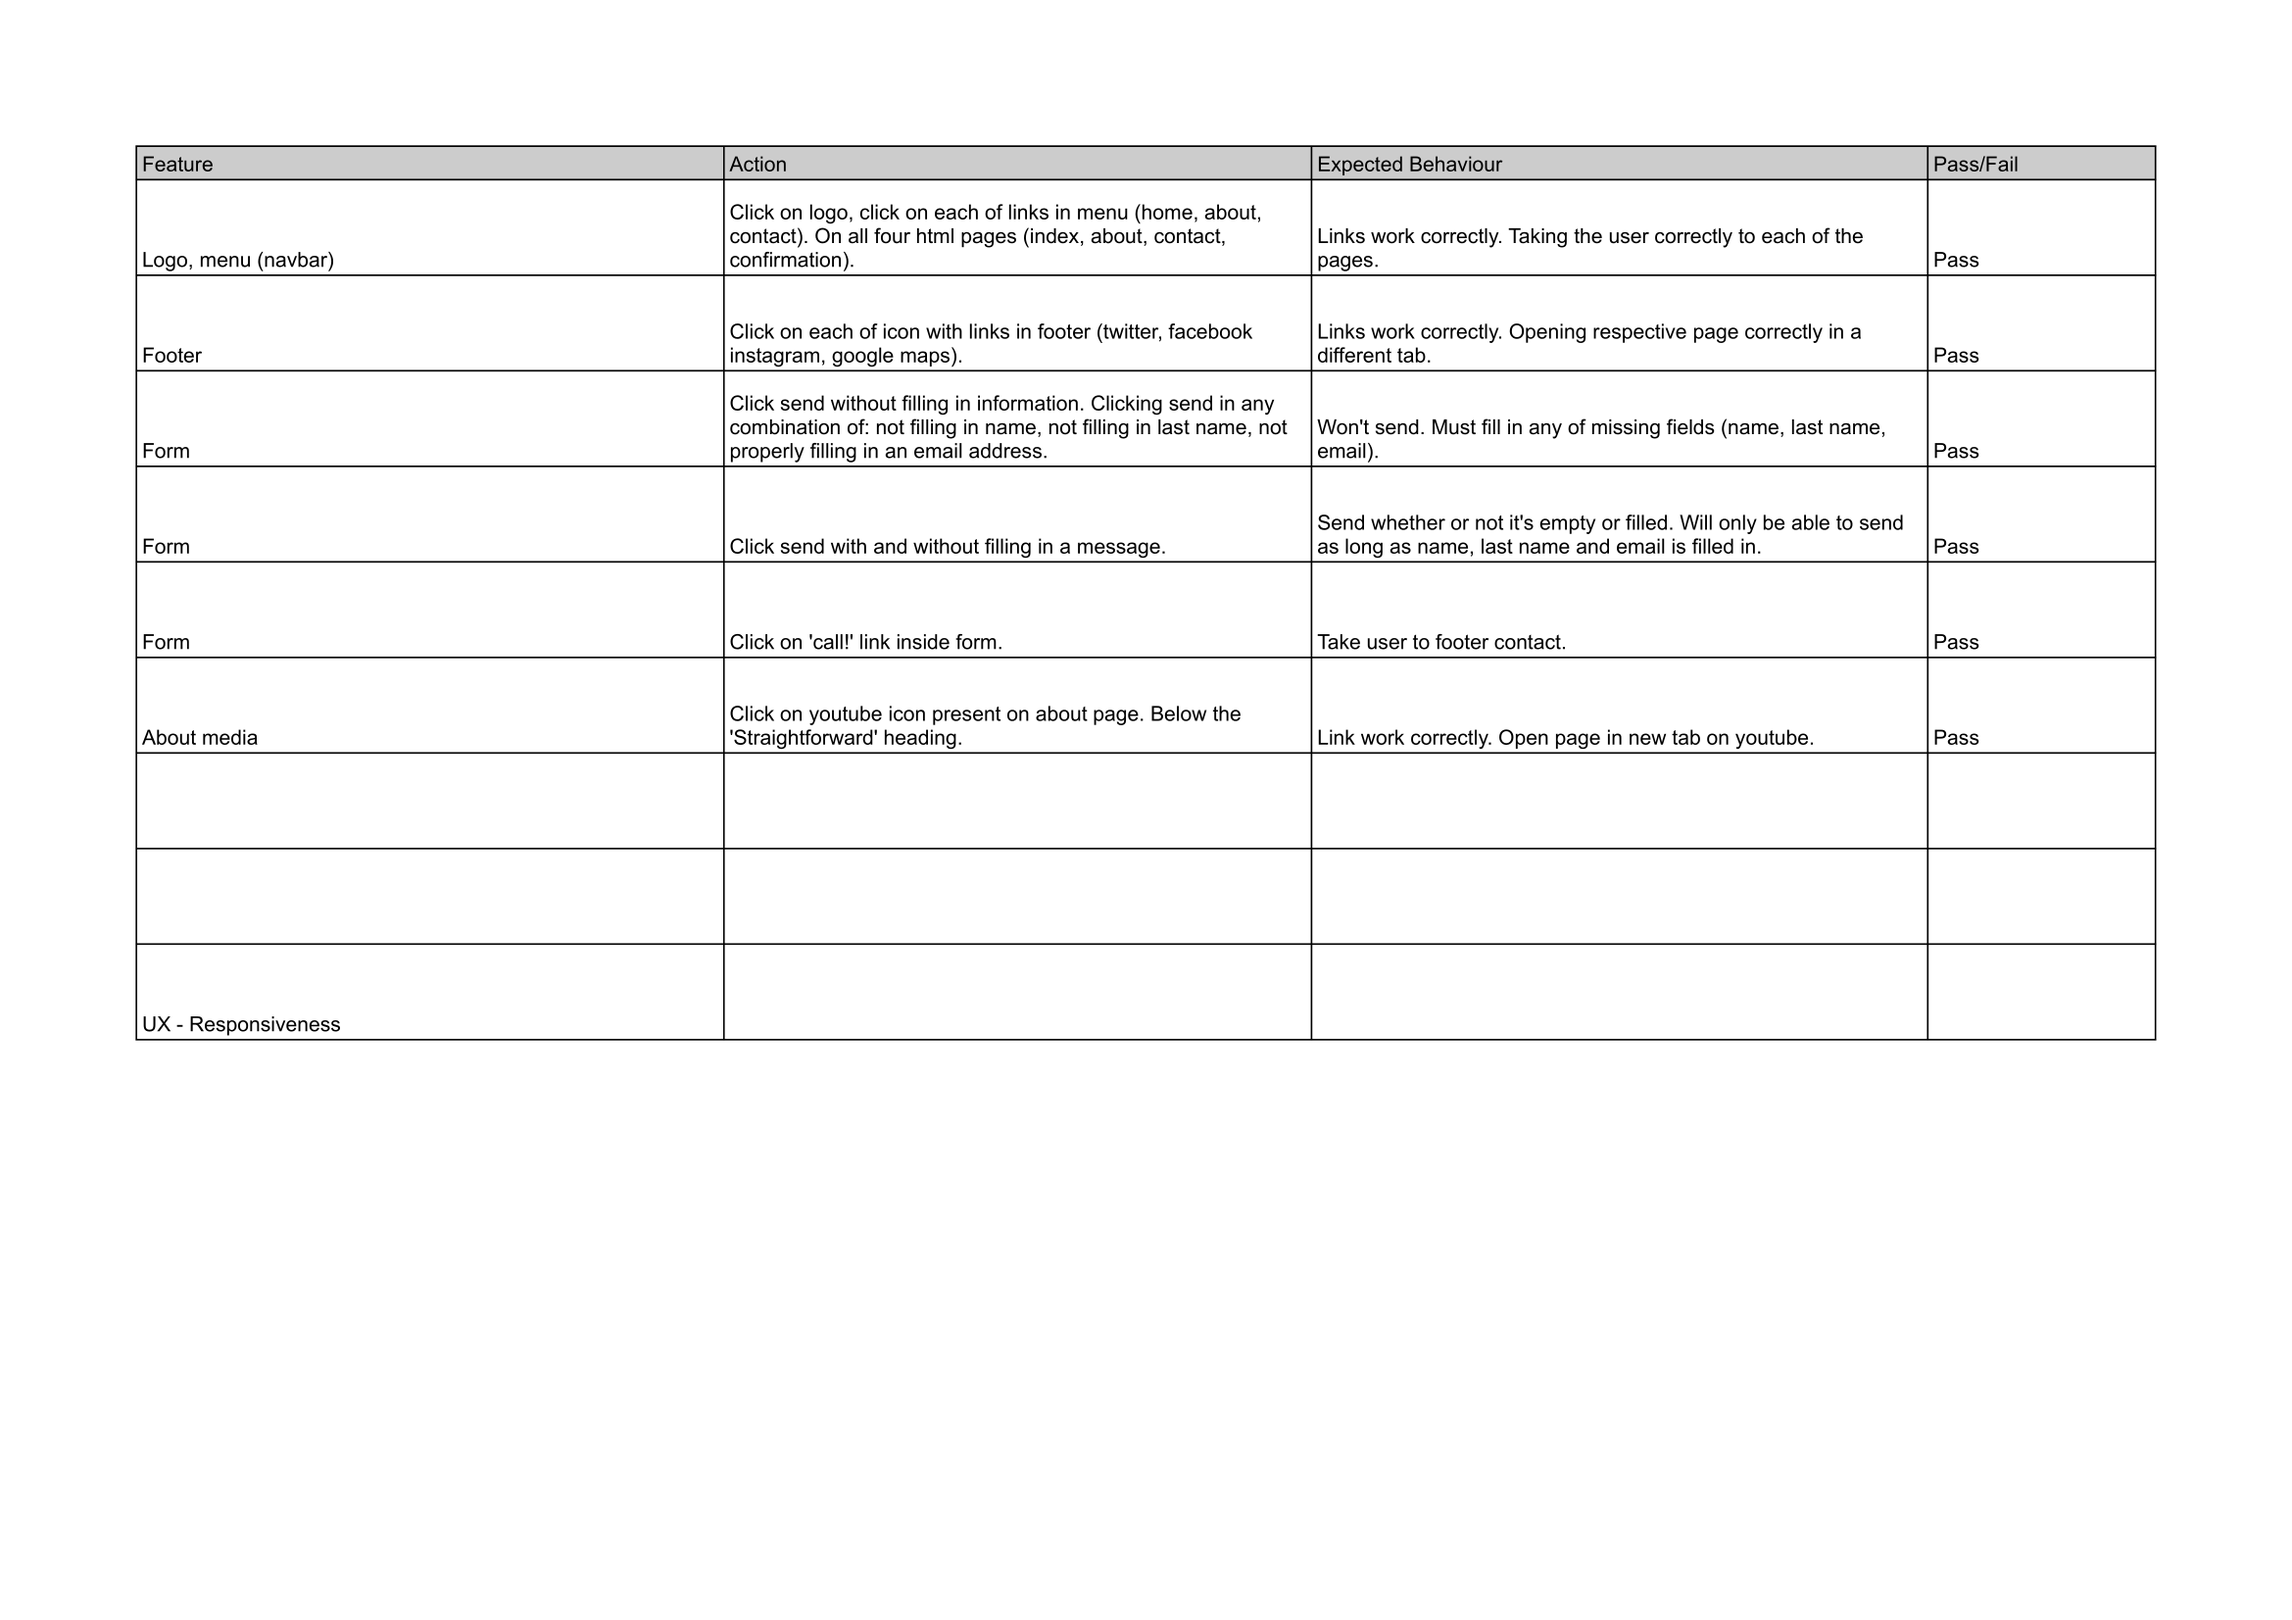
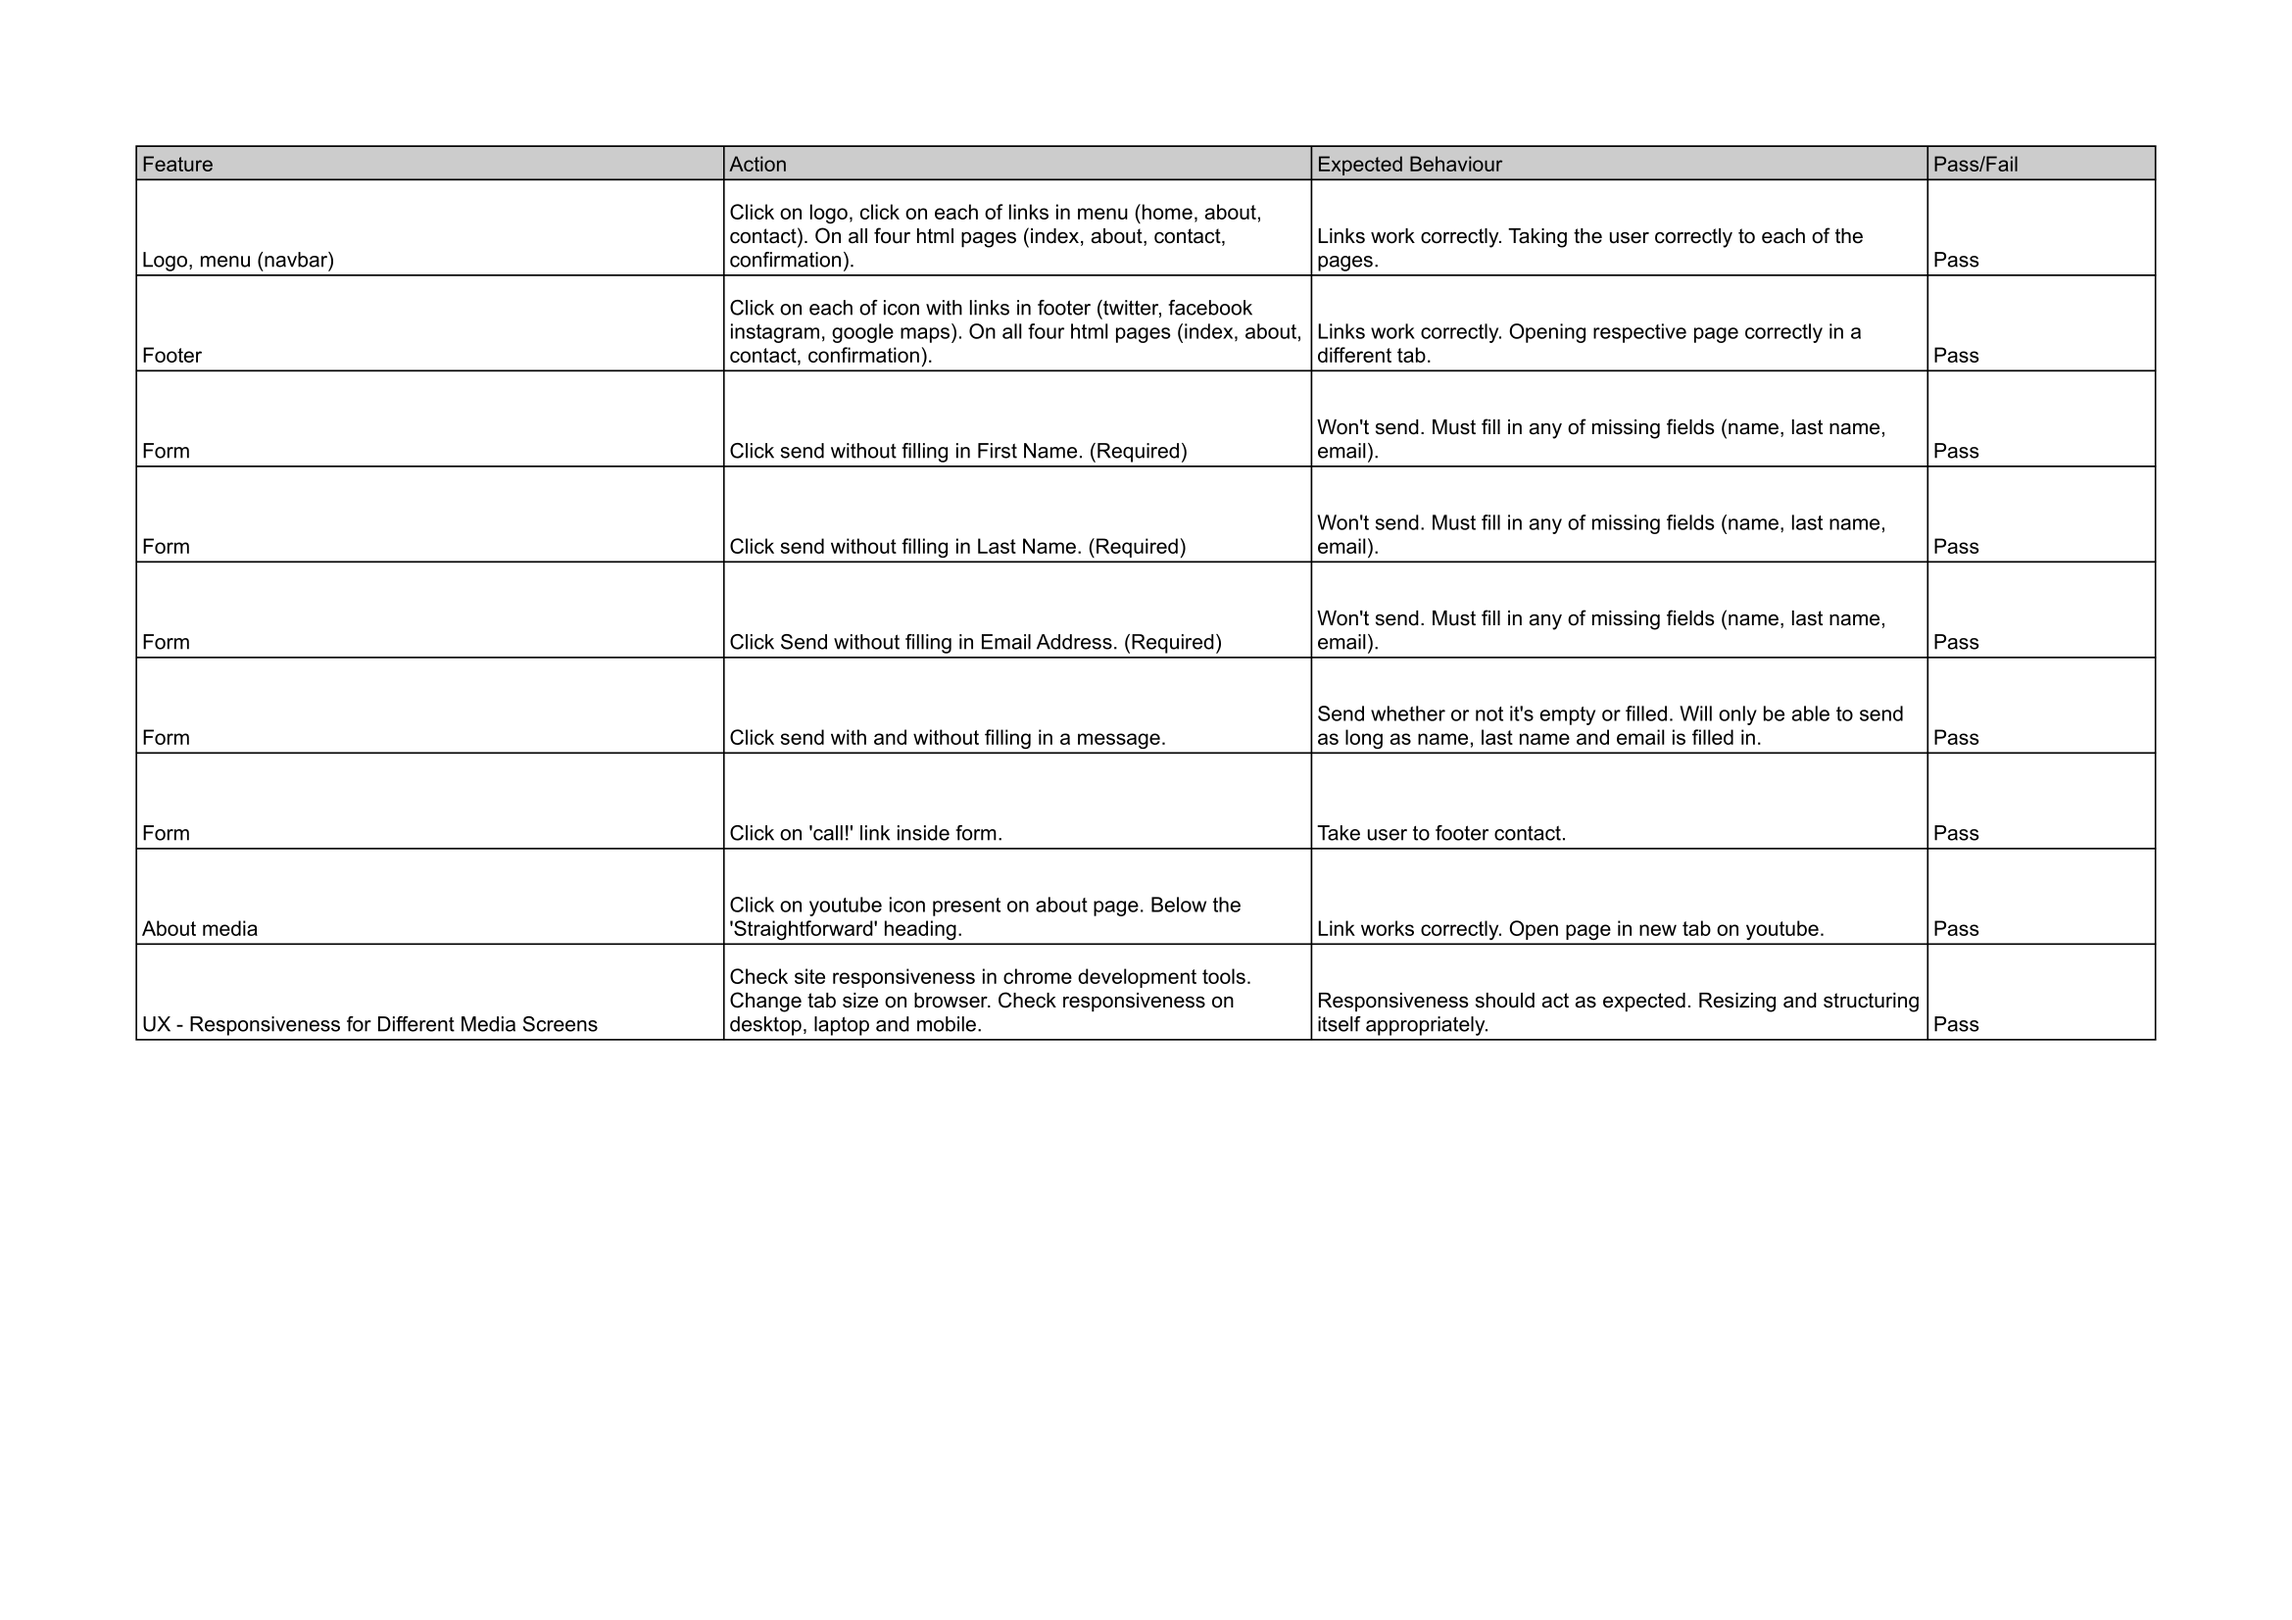
Update README.md (add testing and credits) add images for readme

diff --git a/assets/css/style.css b/assets/css/style.css
@@ -296,9 +296,13 @@ footer {
 /* confirmation */
 
 #confirmation {
-    font-size: 300%;
+    font-size: 200%;
     text-align: center;
     padding: 100px 0;
+    color: brown;
+}
+
+#confirmation h2 {
     color: brown;
 }
 

diff --git a/README.md b/README.md
@@ -11,8 +11,6 @@ Local Archery Club is a website for people who love archery, meant for both firs
 
 ## Features
 
----
-
 ### Existing Features
 
 - **Navigation Bar**
@@ -86,10 +84,9 @@ Local Archery Club is a website for people who love archery, meant for both firs
 ### Features Left to Implement
 
 - Add change language button next to logo. Since the page is meant to be a local club in sweden, original language should be swedish. Should be a simple button showing the flag of the country to inform which language the site is currently on.
+- **Reasons**: Lack of time.
 
 ## Design
-
----
 
 - **Wireframes**
 
@@ -115,7 +112,6 @@ Local Archery Club is a website for people who love archery, meant for both firs
     - **Reasons**: Suggested by mentor. Adds more information for what the club is about, and makes the page more attractive.
 
   - Contact page
-
     - Removed payments and questions paragraph between form and logo.
     - **Reasons**: Suggested by mentor. Not needed.
 
@@ -126,8 +122,6 @@ Local Archery Club is a website for people who love archery, meant for both firs
 
 ## Testing
 
----
-
 ### Manual Testing
 
 ![Testing](documentation/tests.png)
@@ -135,15 +129,42 @@ Local Archery Club is a website for people who love archery, meant for both firs
 ### Validator Testing
 
 - HTML
-  - No errors were returned when passing through the official [W3C validator](https://validator.w3.org/nu/?doc=https%3A%2F%2Fcode-institute-org.github.io%2Flove-running-2.0%2Findex.html)
+  - No errors or warnings were returned on any of the html pages when passing through the html validator: https://validator.w3.org/#validate_by_input
 - CSS
-  - No errors were found when passing through the official [(Jigsaw) validator](https://jigsaw.w3.org/css-validator/validator?uri=https%3A%2F%2Fvalidator.w3.org%2Fnu%2F%3Fdoc%3Dhttps%253A%252F%252Fcode-institute-org.github.io%252Flove-running-2.0%252Findex.html&profile=css3svg&usermedium=all&warning=1&vextwarning=&lang=en#css)
+
+  - No errors were found when passing through the css validator: https://jigsaw.w3.org/css-validator/
+
+- HTML validator results for index.html, about.html, contact.html and confirmation.html
+  ![HTML validation](documentation/validatehtml.jpg)
+
+- CSS validator result for style.css
+  ![CSS validation](documentation/validatecss.jpg)
 
 ### Media
 
-tested on microsoft edge, mozilla firefox and chrome
+- Tested on Microsoft Edge, Mozilla Firefox and Chrome
+- Chrome development tools were used through the process of checking and configuring responsiveness. Adjustments were made accordingly.
+- Tested on https://ui.dev/amiresponsive?url=https://masorr.github.io/local-archery-club/
+- Tested by changing sizes on browser tabs.
+- Tested on desktop, laptop and mobile.
 
-In addition, you should mention in this section how your project looks and works on different browsers and screen sizes.
+### Lighthouse Testing
+
+- Home page
+
+  ![Lighthouse home page](documentation/lighthouse-home.jpg)
+
+- About page
+
+  ![Lighthouse about page](documentation/lighthouse-about.jpg)
+
+- Contact page
+
+  ![Lighthouse contact page](documentation/lighthouse-contact.jpg)
+
+- Confirmation page
+
+  ![Lighthouse confirmation page](documentation/lighthouse-confirmation.jpg)
 
 ### Fixed Bugs
 
@@ -156,16 +177,13 @@ In addition, you should mention in this section how your project looks and works
 
 ## Deployment
 
----
+- The site was deployed to GitHub pages through following steps:
+  - On the repository page, go to 'Settings' in navbar. https://github.com/Masorr/local-archery-club --> https://github.com/Masorr/local-archery-club/settings
+  - In settings go to 'Pages' under 'Code and automation' on the left. https://github.com/Masorr/local-archery-club/settings/pages
+  - Select main branch and hit 'Save'.
+  - Refresh page and hit 'Visit site' on the new 'Your site is live at' box to view the successful deployment.
 
-This section should describe the process you went through to deploy the project to a hosting platform (e.g. GitHub)
-
-- The site was deployed to GitHub pages. The steps to deploy are as follows:
-  - In the GitHub repository, navigate to the Settings tab
-  - From the source section drop-down menu, select the Master Branch
-  - Once the master branch has been selected, the page will be automatically refreshed with a detailed ribbon display to indicate the successful deployment.
-
-The live link can be found here - https://code-institute-org.github.io/love-running-2.0/index.html
+Link to live site - https://masorr.github.io/local-archery-club/
 
 ## Credits
 
@@ -173,9 +191,9 @@ The live link can be found here - https://code-institute-org.github.io/love-runn
 
 - HTML, CSS, layout, structuring and understanding of concepts was made with the help by the course material from Code Institute and inspired particularly by the Love Running project.
 - HTML form and CSS for the form in contact was taken from Love Running project at the Code Institute program. Some attributes and elements have been changed but it has been used as the template.
-- All icons were taken from fontawesome.
-- Code for styling with flex display for centering images on about page https://blog.hubspot.com/website/center-an-image-in-html
-- The flex-wrap wrap came from https://css-tricks.com/snippets/css/a-guide-to-flexbox/
+- All icons were taken from https://fontawesome.com/
+- In CSS the code concept for styling with flex display 'display: flex' and 'justify-content: center' for centering images on about page https://blog.hubspot.com/website/center-an-image-in-html
+- In CSS the 'flex-wrap: flex' came from https://css-tricks.com/snippets/css/a-guide-to-flexbox/
 - README template was copied from Love Running Project given by Code Institute.
 
 ### Media
@@ -193,23 +211,7 @@ The live link can be found here - https://code-institute-org.github.io/love-runn
     - file:///workspaces/local-archery-club/assets/images/pex-rsp-child-and-adults.jpg
     - file:///workspaces/local-archery-club/assets/images/pex-rsp-bows.jpg
 
-## Other General Project Advice
+## Thanks
 
----
-
-Below you will find a couple of extra tips that may be helpful when completing your project. Remember that each of these projects will become part of your final portfolio so it’s important to allow enough time to showcase your best work!
-
-- One of the most basic elements of keeping a healthy commit history is with the commit message. When getting started with your project, read through [this article](https://chris.beams.io/posts/git-commit/) by Chris Beams on How to Write a Git Commit Message
-
-  - Make sure to keep the messages in the imperative mood
-
-- When naming the files in your project directory, make sure to consider meaningful naming of files, point to specific names and sections of content.
-
-  - For example, instead of naming an image used ‘image1.png’ consider naming it ‘landing_page_img.png’. This will ensure that there are clear file paths kept.
-
-- Do some extra research on good and bad coding practices, there are a handful of useful articles to read, consider reviewing the following list when getting started:
-  - [Writing Your Best Code](https://learn.shayhowe.com/html-css/writing-your-best-code/)
-  - [HTML & CSS Coding Best Practices](https://medium.com/@inceptiondj.info/html-css-coding-best-practice-fadb9870a00f)
-  - [Google HTML/CSS Style Guide](https://google.github.io/styleguide/htmlcssguide.html#General)
-
-Getting started with your Portfolio Projects can be daunting, planning your project can make it a lot easier to tackle, take small steps to reach the final outcome and enjoy the process!
+- I want to thank Code Institute and their tutors for their program and giving me the opportunity to also navigate and learn by myself by coding this webpage.
+- I want to thank the Slack community and my mentor Dick Vlaanderen for feedback and inputs.
